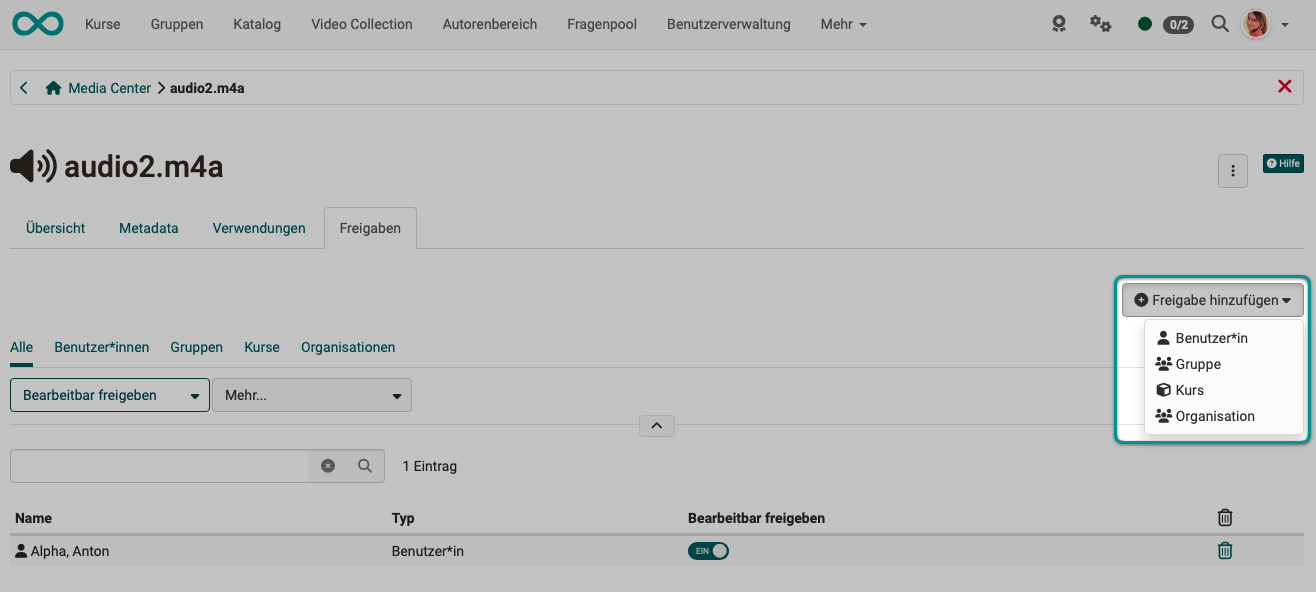
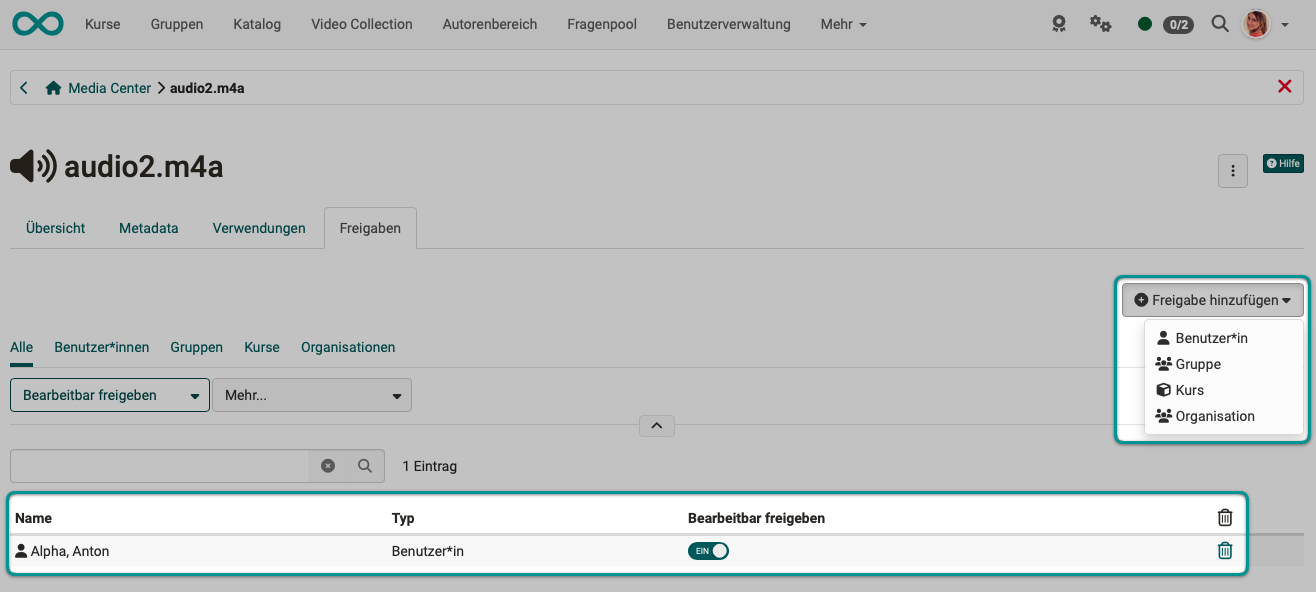
BenutzerHB: Ergänzung Media Center

Changed region(s): [[0.0, 0.8209, 0.9658, 1.0]]

diff --git a/sites/manual_user/docs/basic_concepts/Media_Center_Items.de.md b/sites/manual_user/docs/basic_concepts/Media_Center_Items.de.md
@@ -10,12 +10,14 @@ Zu jedem im Media Center abgelegten Einzelmedium können Informationen und Einst
 
 ## Tab Übersicht {: #media_center_overview}
 
-**Übersicht:** mit zentralen Details, Aktivitätslog, Bearbeitungsmöglichkeit, Versionierung, Möglichkeit die Datei zu ersetzen
+Der Tab **Übersicht** zeigt die Details Typ, Ersteller:in, Erstellungsdatum und Dateigrösse. Es besteht ausserdem die Möglichkeit den Aktivitätslog anzuzeigen und eine neue Version zu erstellen bzw. das Bild zu ersetzen.
 
 ![media_center_items_tab_overview_v1_de.png](assets/media_center_items_tab_overview_v1_de.png){ class="shadow lightbox" } 
 
 
 ### Aktivitätslog {: #media_center_activitylog}
+
+Im Aktivitätslog kann nachverfolgt werden, wann das Medienelement von wem bearbeitet wurde.
 
 ![media_center_items_tab_overview_activity_v1_de.png](assets/media_center_items_tab_overview_activity_v1_de.png){ class="shadow lightbox" } 
 
@@ -24,7 +26,7 @@ Zu jedem im Media Center abgelegten Einzelmedium können Informationen und Einst
 
 Interessant ist die Möglichkeit Medienelemente zu **versionieren**. So können z.B. verschiedene Arbeitsschritte oder Zwischenstufen gesichert werden. Ein Wechsel zu älteren Versionen ist dann jederzeit möglich.
 
-Mit "Bild ersetzen" wird dagegen in der aktuellen Version das Bild ausgetauscht. Alle sonstigen eingegebenen Metadaten und Einstellungen (z.B. Freigabe) bleiben dabei erhalten. 
+Mit **Bild ersetzen** wird dagegen in der aktuellen Version das Bild ausgetauscht. Alle sonstigen eingegebenen Metadaten und Einstellungen (z.B. Freigaben) bleiben dabei erhalten. 
 
 
 ![media_center_items_tab_overview_new_version_v1_de.png](assets/media_center_items_tab_overview_new_version_v1_de.png){ class="shadow lightbox" } 
@@ -66,7 +68,7 @@ Je nach Art des Medientyps variieren die Informationen und Möglichkeiten der Me
 ---
 
 
-## Tab Verwendung {: #media_center_uses}
+## Tab Verwendungen {: #media_center_uses}
 
 Im Tab "Verwendungen" können Sie nachvollziehen, wo das Medienelement verwendet wird.<br> 
 Durch Klick auf die Verwendungsangabe können Sie direkt an die Stelle in diesem Kurs springen.
